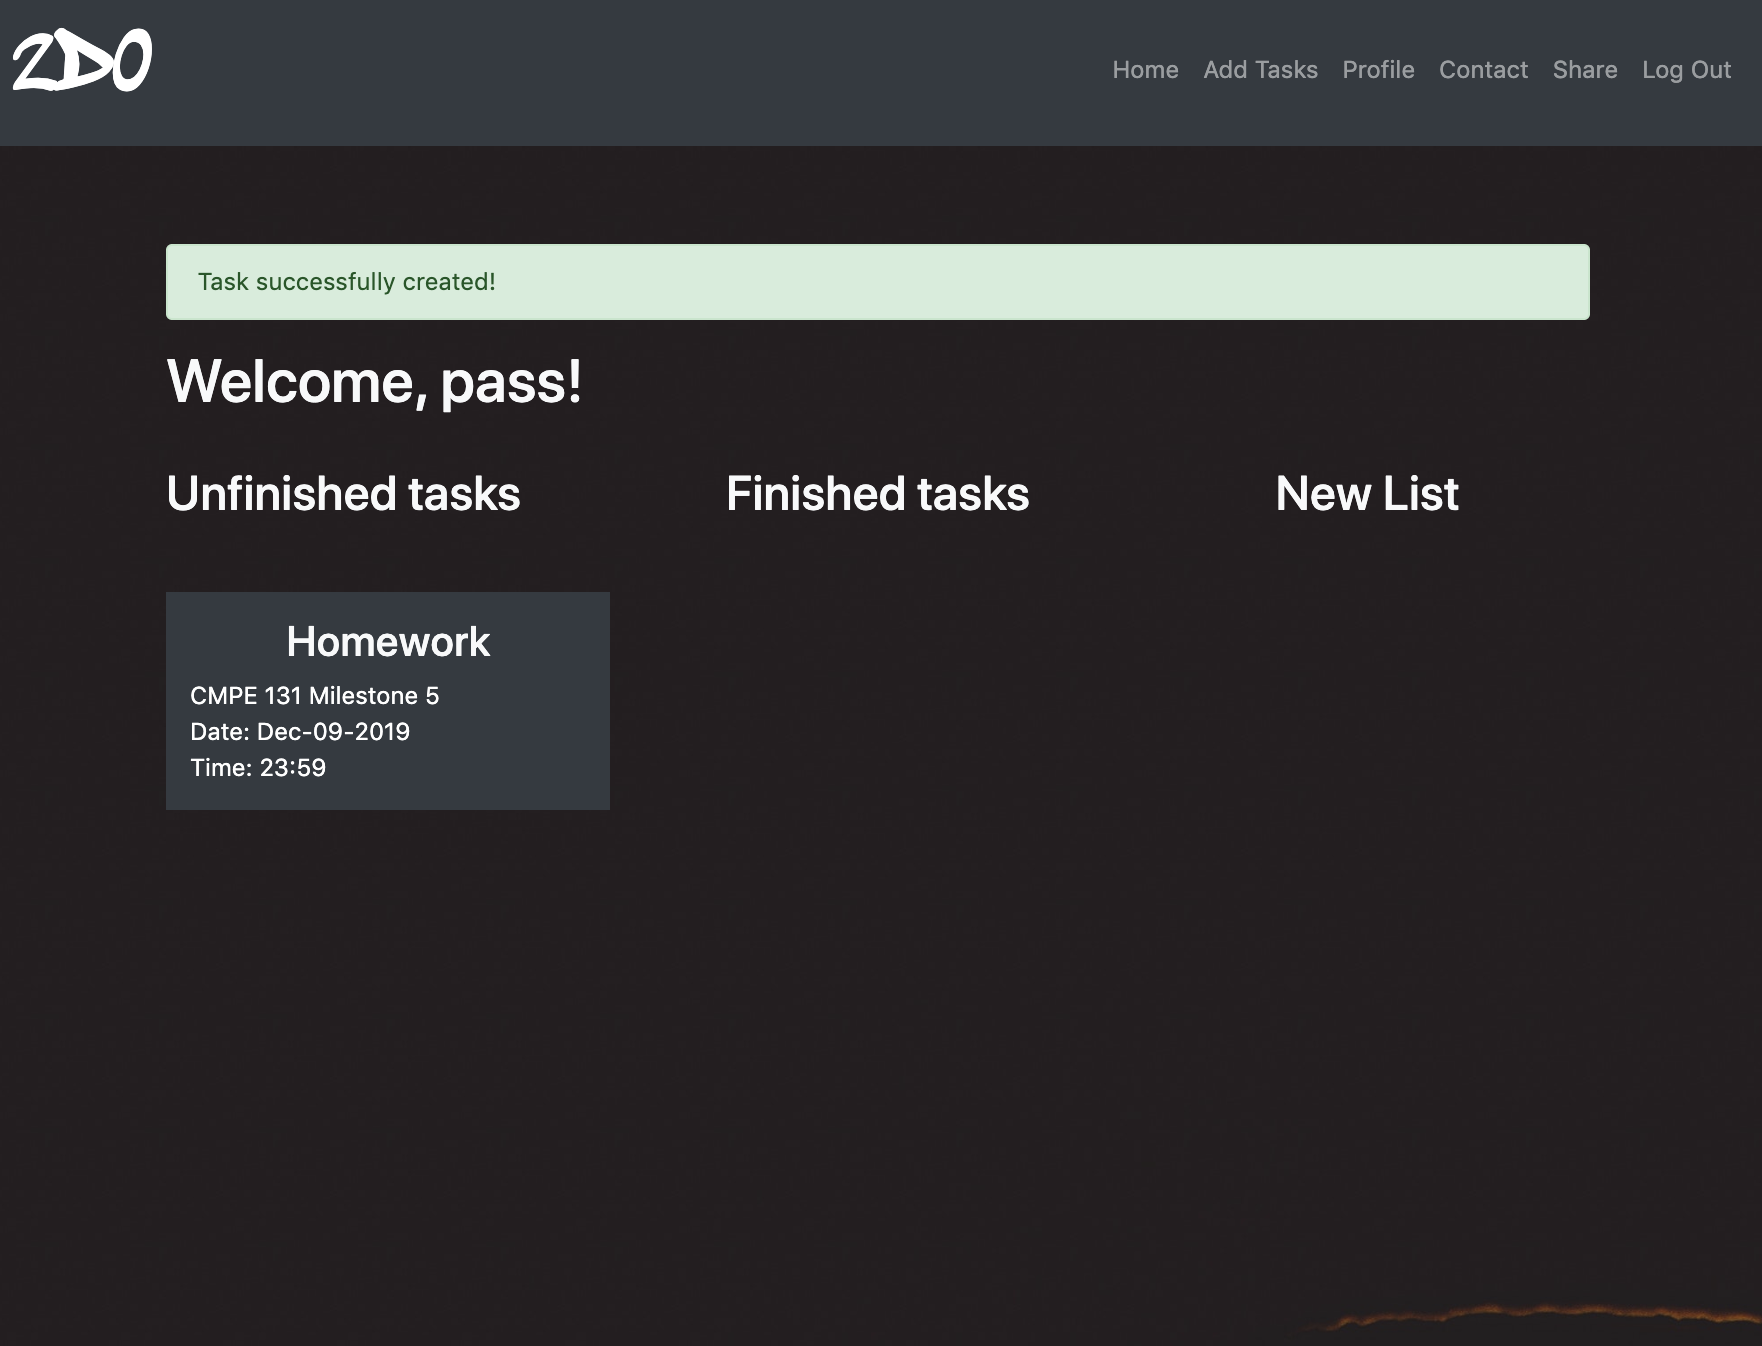
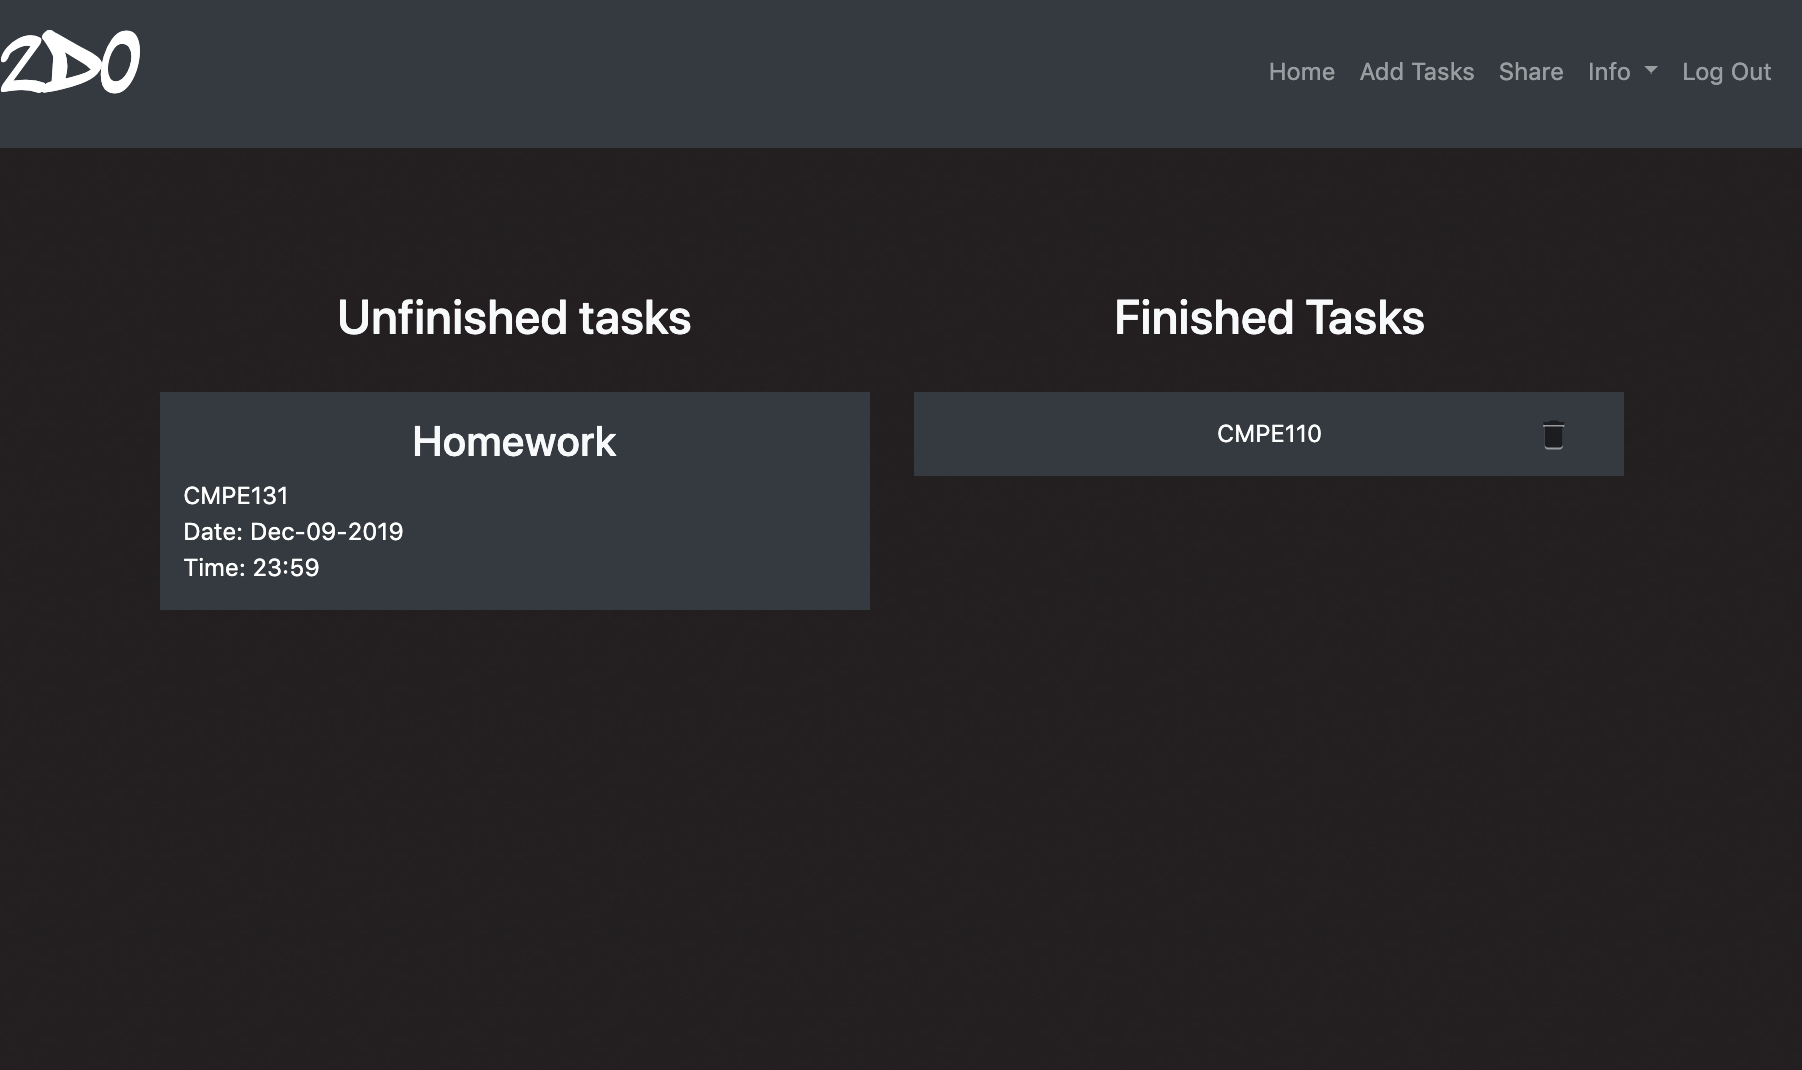
Changing Sphinx

diff --git a/docs/build/html/searchindex.js b/docs/build/html/searchindex.js
@@ -1,1 +1,1 @@
-Search.setIndex({docnames:["index"],envversion:{"sphinx.domains.c":1,"sphinx.domains.changeset":1,"sphinx.domains.citation":1,"sphinx.domains.cpp":1,"sphinx.domains.javascript":1,"sphinx.domains.math":2,"sphinx.domains.python":1,"sphinx.domains.rst":1,"sphinx.domains.std":1,sphinx:56},filenames:["index.rst"],objects:{},objnames:{},objtypes:{},terms:{"new":0,The:0,Using:0,add:0,added:0,admin:0,allow:0,app:0,applic:0,bar:0,becom:0,below:0,can:0,caption:0,check:0,click:0,complaint:0,contact:0,contain:0,content:0,creat:0,daili:0,delet:0,direct:0,done:0,each:0,eas:0,easier:0,edit:0,email:0,enter:0,finish:0,flask:0,friend:0,from:0,gunicorn:0,has:0,header:0,heroku:0,home:0,hope:0,index:0,list:0,login:0,mail:0,manag:0,mark:0,modul:0,move:0,navig:0,notif:0,onc:0,other:0,our:0,packag:0,page:0,pdf:0,profil:0,python3:0,receiv:0,redirect:0,regist:0,requir:0,schedul:0,screen:0,search:0,sent:0,set:0,share:0,shown:0,sign:0,signin:0,signup:0,sphinx:0,sqlalchemi:0,support:0,task:0,thei:0,thi:0,time:0,unfinish:0,user:0,which:0,wtf:0,wtform:0,you:0,your:0},titles:["Welcome to 2Do\u2019s documentation!"],titleterms:{"2do":0,document:0,indic:0,tabl:0,welcom:0}})
+Search.setIndex({docnames:["index"],envversion:{"sphinx.domains.c":1,"sphinx.domains.changeset":1,"sphinx.domains.citation":1,"sphinx.domains.cpp":1,"sphinx.domains.javascript":1,"sphinx.domains.math":2,"sphinx.domains.python":1,"sphinx.domains.rst":1,"sphinx.domains.std":1,sphinx:56},filenames:["index.rst"],objects:{},objnames:{},objtypes:{},terms:{"new":0,The:0,Using:0,access:0,add:0,added:0,admin:0,allow:0,app:0,applic:0,bar:0,becom:0,below:0,can:0,caption:0,check:0,click:0,complaint:0,contact:0,contain:0,content:0,creat:0,daili:0,delet:0,direct:0,done:0,each:0,eas:0,easier:0,edit:0,email:0,enter:0,finish:0,flask:0,friend:0,from:0,gunicorn:0,has:0,header:0,heroku:0,home:0,hope:0,index:0,info:0,list:0,login:0,mail:0,manag:0,mark:0,modul:0,move:0,must:0,navig:0,notif:0,onc:0,other:0,our:0,packag:0,page:0,pdf:0,profil:0,python3:0,receiv:0,redirect:0,regist:0,requir:0,schedul:0,screen:0,search:0,sent:0,set:0,share:0,shown:0,sign:0,signin:0,signup:0,sphinx:0,sqlalchemi:0,support:0,task:0,thei:0,thi:0,time:0,unfinish:0,user:0,which:0,wtf:0,wtform:0,you:0,your:0},titles:["Welcome to 2Do\u2019s documentation!"],titleterms:{"2do":0,document:0,indic:0,tabl:0,welcom:0}})

diff --git a/docs/build/html/index.html b/docs/build/html/index.html
@@ -62,7 +62,7 @@
 <p>Users can add new tasks, by clicking on the add task from the navigation bar</p>
 <img alt="_images/AddTask.png" src="_images/AddTask.png" />
 <p><em>Home Page</em></p>
-<p>New Tasks are added to the To Do List</p>
+<p>New Tasks are added to the Unfinished Task List</p>
 <img alt="_images/Home.png" src="_images/Home.png" />
 <p><em>Edit Tasks</em></p>
 <p>Clicking on the task header will allow you the user to finish, delete, or edit a task</p>
@@ -73,10 +73,10 @@
 <p>Once the user is done with a task, they can click on the check mark to move the task to the finished task list</p>
 <img alt="_images/Finished.png" src="_images/Finished.png" />
 <p><em>Profile</em></p>
-<p>Each user has a profile</p>
+<p>Each user has a profile which they can access from the Info in the Navigation Bar.</p>
 <img alt="_images/Profile.png" src="_images/Profile.png" />
 <p><em>Share</em></p>
-<p>Users can share their 2Do lists with friends by email. An email will then be sent containing a PDF of their unfinished tasks.</p>
+<p>Users can share their 2Do lists with friends by email. An email will then be sent containing a PDF of their unfinished tasks. Users must click on the Share header as shown below</p>
 <img alt="_images/Share.png" src="_images/Share.png" />
 <p><em>Contact</em></p>
 <p>Users can contact admin support and our admin email will receive an email with the users complaints</p>

diff --git a/docs/source/index.rst b/docs/source/index.rst
@@ -42,7 +42,7 @@ Users can add new tasks, by clicking on the add task from the navigation bar
 
 *Home Page*
 
-New Tasks are added to the To Do List
+New Tasks are added to the Unfinished Task List
 
 .. image:: Home.png
 
@@ -65,13 +65,13 @@ Once the user is done with a task, they can click on the check mark to move the 
 
 *Profile*
 
-Each user has a profile
+Each user has a profile which they can access from the Info in the Navigation Bar.
 
 .. image:: Profile.png
 
 *Share*
 
-Users can share their 2Do lists with friends by email. An email will then be sent containing a PDF of their unfinished tasks.
+Users can share their 2Do lists with friends by email. An email will then be sent containing a PDF of their unfinished tasks. Users must click on the Share header as shown below
 
 .. image:: Share.png
 
